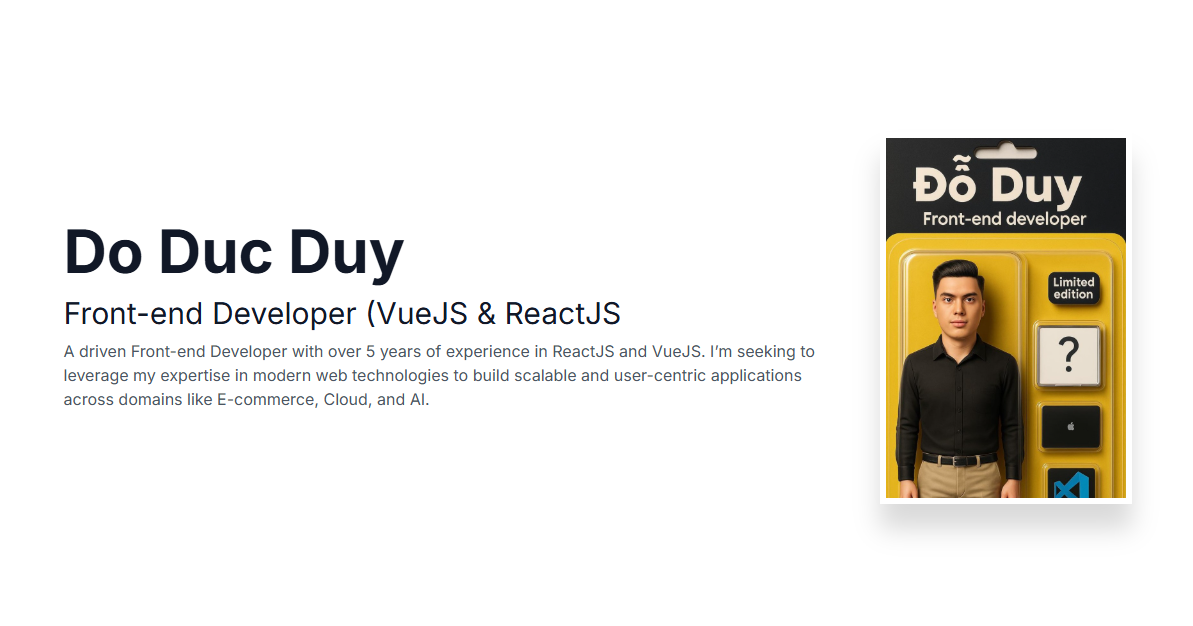
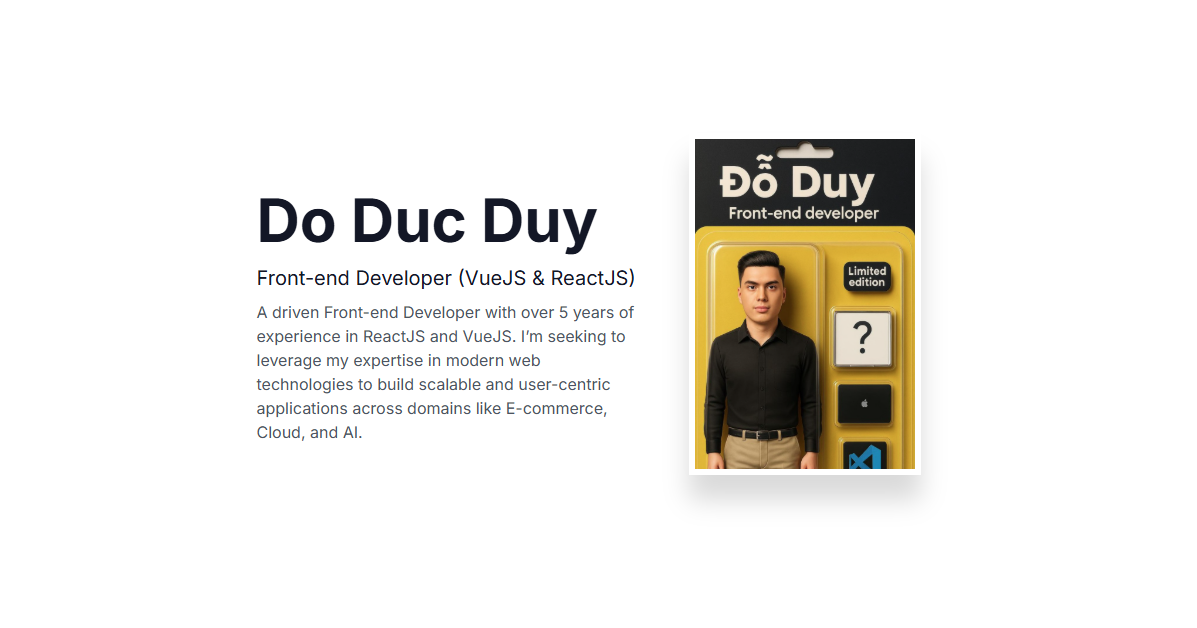
Update open graph image

Changed region(s): [[0.031, 0.2125, 0.9614, 0.8498], [0.031, 0.3035, 0.5272, 0.4553]]

diff --git a/src/components/HeroSection.jsx b/src/components/HeroSection.jsx
@@ -12,26 +12,28 @@ const HeroSection = () => {
             id="hero"
         >
             <div
-                className="flex flex-col-reverse lg:flex-row items-center justify-between gap-12"
+                className="flex flex-row items-center justify-center gap-12 border w-[1200px] h-[630px]"
             >
                 {/* Left Content */}
-                <div className="flex flex-col gap-12 text-left max-w-3xl">
+                <div className="flex flex-col gap-12 text-left max-w-sm">
                     {/* Heading */}
                     <div>
                         <Typography tag="h1" variant="heading-h1" className="text-gray-900 dark:text-graydark-900 mb-2 flex gap-2">
-                            <span>Hi, I’m Duy</span>
-                            <span className="animate-wiggle">👋</span>
+                            <span>Do Duc Duy</span>
+                        </Typography>
+                        <Typography tag="h1" variant="subtitle" className="text-gray-900 dark:text-graydark-900 mb-2 flex gap-2">
+                            <span>Front-end Developer (VueJS & ReactJS)</span>
                         </Typography>
 
                         {/* Description */}
                         <Typography tag="p" variant="body2" className="text-gray-600 dark:text-graydark-600">
-                            My name is Do Duc Duy. I’m a driven Front-end Developer with over 5 years of experience in ReactJS and VueJS. I’m seeking to leverage my expertise in modern web technologies to build scalable and user-centric applications across domains like E-commerce, Cloud, and AI.
+                            A driven Front-end Developer with over 5 years of experience in ReactJS and VueJS. I’m seeking to leverage my expertise in modern web technologies to build scalable and user-centric applications across domains like E-commerce, Cloud, and AI.
                         </Typography>
                     </div>
 
 
                     {/* Location and Availability */}
-                    <div className="flex flex-col gap-2">
+                    <div className="hidden flex-col gap-2">
                         <div className="flex items-center gap-3 text-gray-800 dark:text-graydark-800">
                             <MapPin className="w-6 h-6" />
                             <Typography tag="p">Hai Phong, Viet Nam</Typography>
@@ -47,7 +49,7 @@ const HeroSection = () => {
                     </div>
 
                     {/* Social Icons */}
-                    <div className="flex gap-1">
+                    <div className="hidden gap-1">
                         <IconWrapper link="mailto:doducduy.vietnam@gmail.com">
                             <Mail/>
                         </IconWrapper>
@@ -73,12 +75,12 @@ const HeroSection = () => {
                     force
                 >
                     <div className="relative shrink-0 w-[252px] h-[332px] lg:w-[252px] lg:h-[362px] cursor-zoom-in">
-                        <div className="absolute right-1/2 lg:right-0 translate-x-1/2 lg:translate-x-0 w-[252px] h-[312px] lg:w-[232px] lg:h-[342px] bottom-0 bg-gray-200 dark:bg-graydark-200"></div>
-                        <div className="absolute left-1/2 lg:left-0 -translate-x-1/2 lg:translate-x-0 top-0 z-20 bg-white dark:bg-gray-950 p-1.5 shadow-2xl sparkly">
+                        {/*<div className="absolute right-1/2 lg:right-0 translate-x-1/2 lg:translate-x-0 w-[252px] h-[312px] lg:w-[232px] lg:h-[342px] bottom-0 bg-gray-200 dark:bg-graydark-200"></div>*/}
+                        <div className="absolute left-1/2 lg:left-0 -translate-x-1/2 lg:translate-x-0 top-0 z-20 bg-white dark:bg-gray-950 p-1.5 shadow-2xl">
                             <Image
                                 src="/Hero.jpg" // Replace with your actual image path
                                 width="220"
-                                optimize={true}
+                                optimize={false}
                                 alt="Duy's introduction"
                                 className="min-w-[200px] w-[200px] h-[300px] lg:w-[220px] lg:h-[330px]"
                             />
